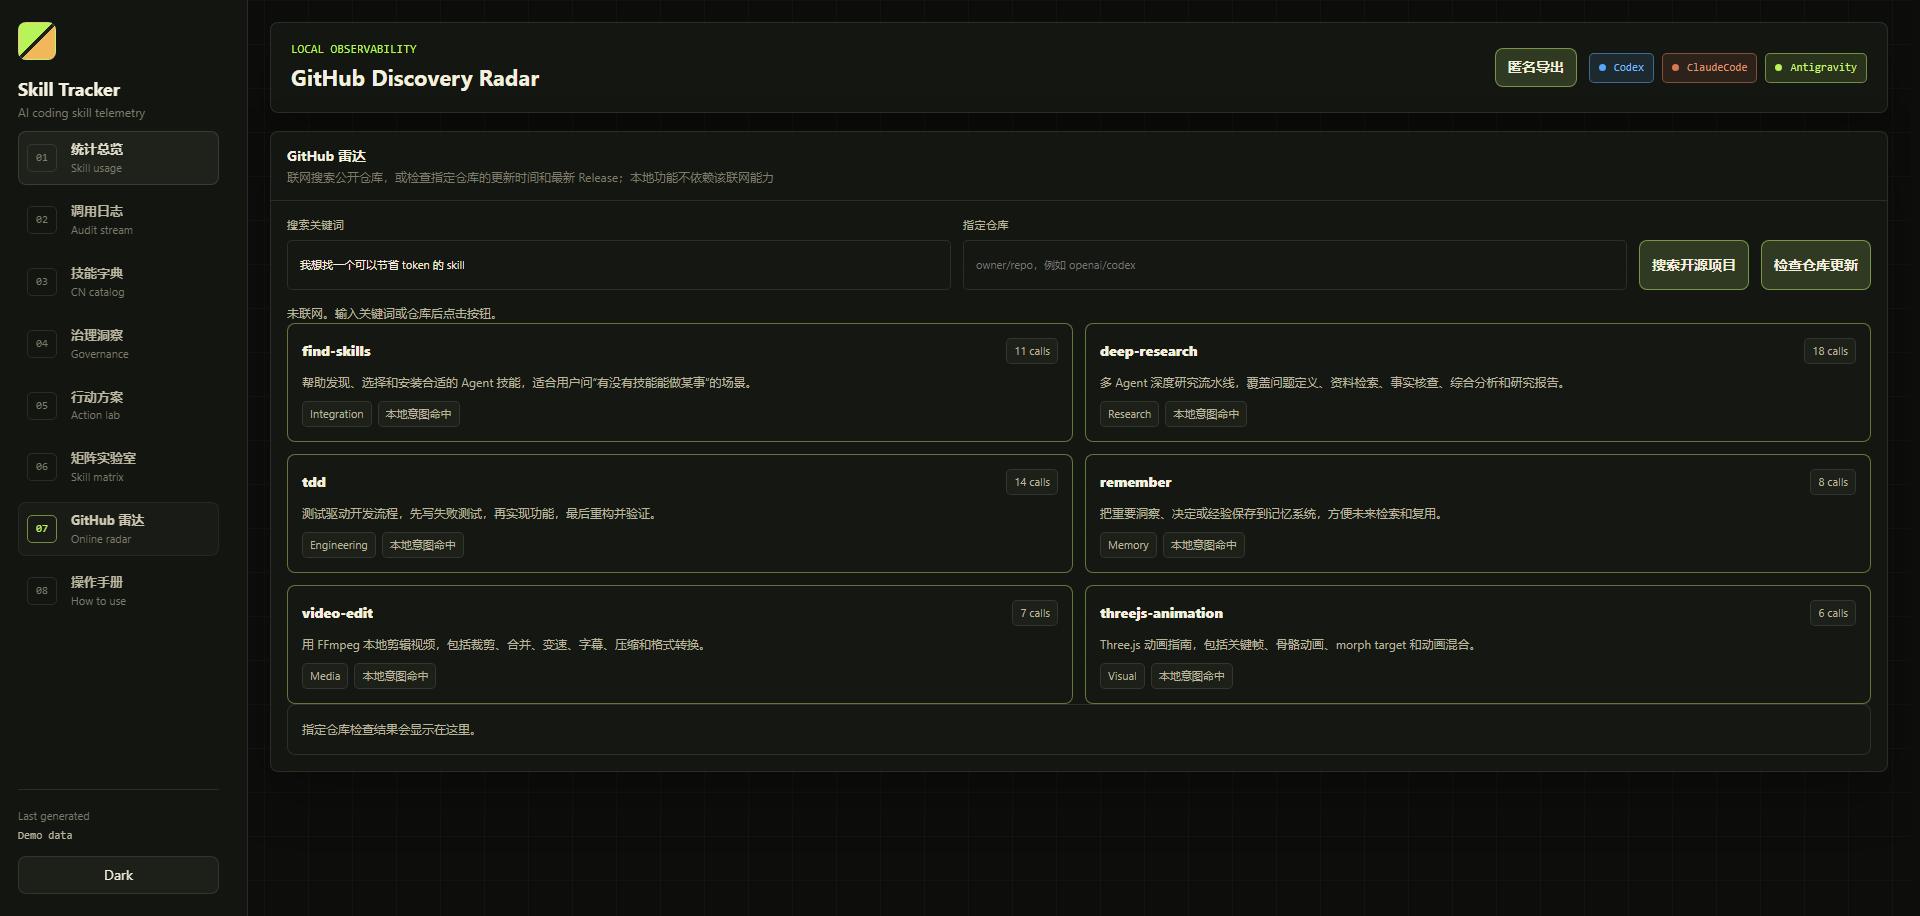
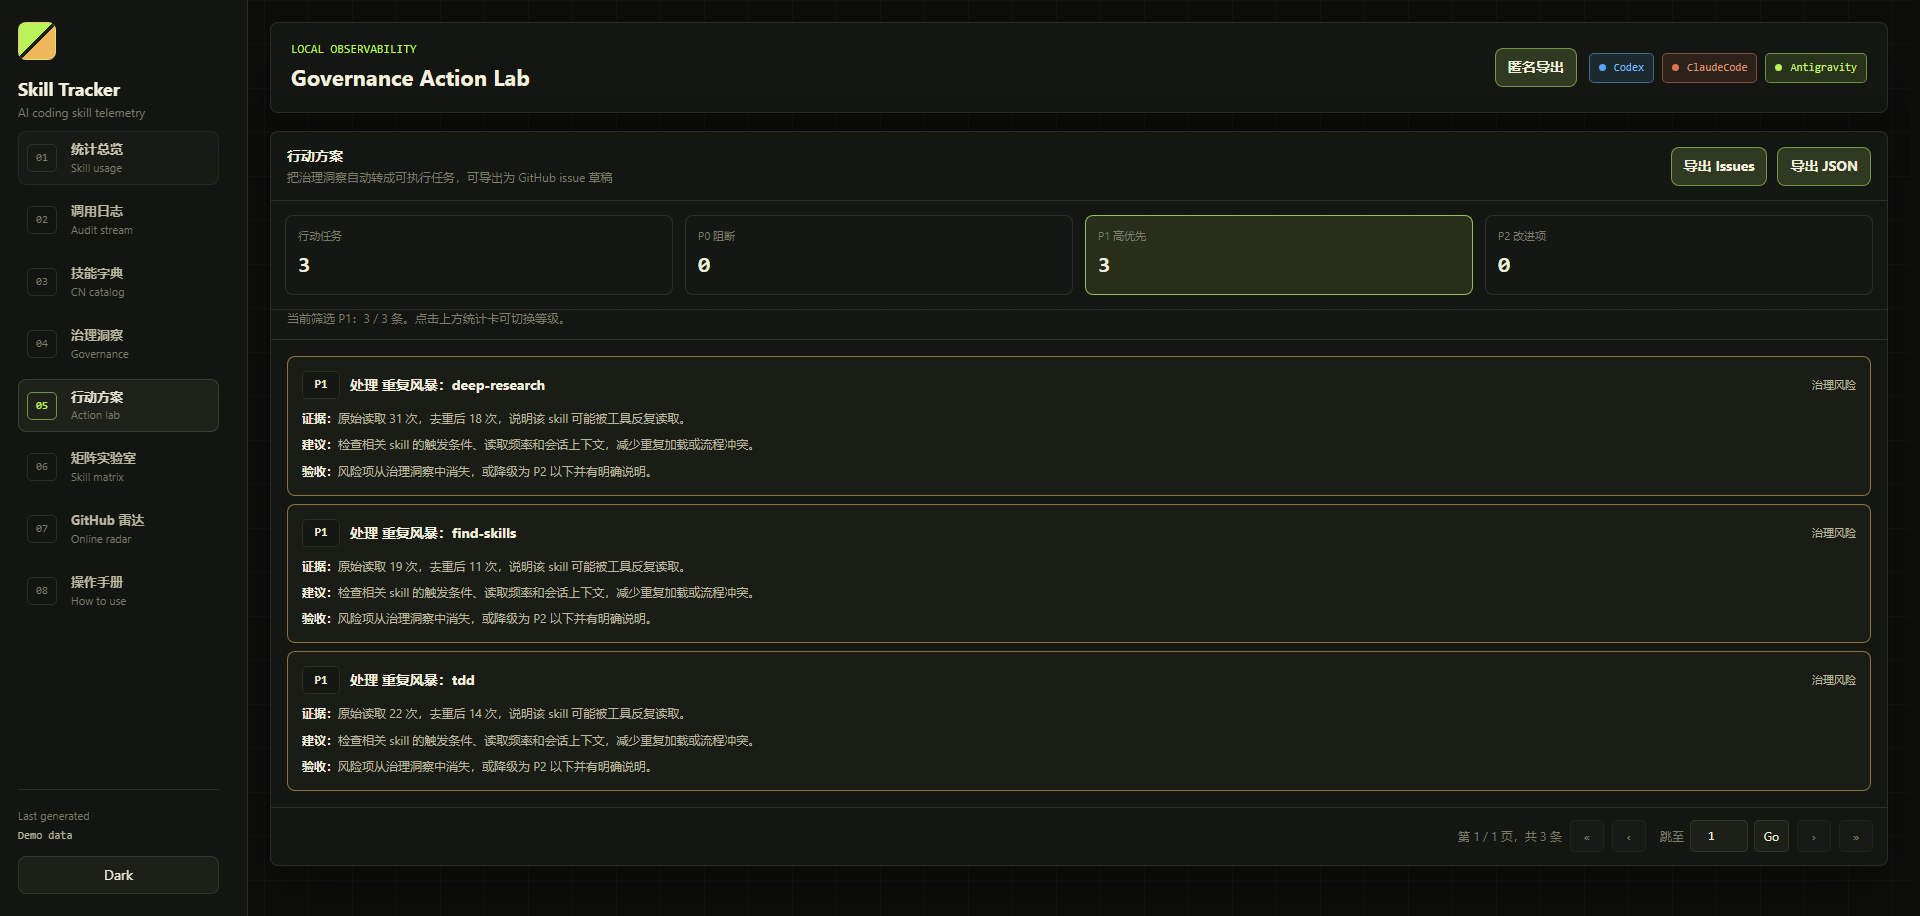
Finalize action lab release polish

diff --git a/dashboard/index.html b/dashboard/index.html
@@ -957,6 +957,21 @@ tbody tr.data-row.expanded {
   border: 1px solid var(--border);
   border-radius: var(--radius);
   background: var(--surface);
+  text-align: left;
+}
+
+button.catalog-stat {
+  cursor: pointer;
+  font: inherit;
+}
+
+button.catalog-stat:hover {
+  border-color: color-mix(in srgb, var(--accent) 48%, var(--border));
+}
+
+button.catalog-stat.active {
+  border-color: color-mix(in srgb, var(--accent) 72%, var(--border));
+  background: color-mix(in srgb, var(--accent) 11%, var(--surface));
 }
 
 .catalog-stat span {
@@ -1252,6 +1267,7 @@ tbody tr.data-row.expanded {
   min-height: 28px;
   display: inline-grid;
   place-items: center;
+  justify-self: start;
   border-radius: var(--radius-sm);
   border: 1px solid var(--border);
   background: var(--surface);
@@ -1269,6 +1285,7 @@ tbody tr.data-row.expanded {
 }
 
 .action-kind {
+  justify-self: start;
   color: var(--muted);
   font-size: 11px;
 }
@@ -1285,23 +1302,11 @@ tbody tr.data-row.expanded {
   color: var(--text);
 }
 
-.action-filter-row {
-  display: flex;
-  align-items: center;
-  justify-content: space-between;
-  gap: 12px;
-  padding: 0 16px 14px;
-  border-bottom: 1px solid var(--border);
-}
-
 .action-filter-note {
   color: var(--dim);
   font-size: 12px;
-  text-align: right;
-}
-
-.action-filter-row .segmented {
-  flex-wrap: wrap;
+  padding: 0 16px 12px;
+  border-bottom: 1px solid var(--border);
 }
 
 .matrix-toolbar,
@@ -1872,11 +1877,6 @@ tbody tr.data-row.expanded {
     justify-content: stretch;
   }
 
-  .action-filter-row {
-    align-items: stretch;
-    flex-direction: column;
-  }
-
   .action-filter-note {
     text-align: left;
   }
@@ -2201,18 +2201,11 @@ tbody tr.data-row.expanded {
         </div>
 
         <div class="catalog-summary" id="actionSummary"></div>
-        <div class="action-filter-row">
-          <div class="segmented" role="group" aria-label="行动方案优先级筛选">
-            <button type="button" class="active" data-action-priority-filter="all">全部</button>
-            <button type="button" data-action-priority-filter="P0">P0 阻断</button>
-            <button type="button" data-action-priority-filter="P1">P1 高优先</button>
-            <button type="button" data-action-priority-filter="P2">P2 改进</button>
-          </div>
-          <div class="action-filter-note" id="actionFilterNote">显示全部行动项</div>
-        </div>
+        <div class="action-filter-note" id="actionFilterNote">点击上方统计卡可切换优先级筛选。</div>
         <div class="section-body">
           <div class="insight-list" id="actionList"></div>
         </div>
+        <div class="pager" id="actionPager"></div>
       </div>
     </section>
 
@@ -2488,6 +2481,8 @@ tbody tr.data-row.expanded {
   var catalogPageSize = 8;
   var catalogDirty = {};
   var actionPriorityFilter = "all";
+  var actionPage = 0;
+  var actionPageSize = 8;
   var pageTitles = {
     stats: "AI Skill Usage Analytics",
     log: "Skill Call Audit Stream",
@@ -2516,6 +2511,7 @@ tbody tr.data-row.expanded {
     actionSummary: document.getElementById("actionSummary"),
     actionList: document.getElementById("actionList"),
     actionFilterNote: document.getElementById("actionFilterNote"),
+    actionPager: document.getElementById("actionPager"),
     exportActionIssues: document.getElementById("exportActionIssues"),
     exportActionJson: document.getElementById("exportActionJson"),
     matrixSummary: document.getElementById("matrixSummary"),
@@ -2651,14 +2647,12 @@ tbody tr.data-row.expanded {
     els.exportDuplicatePlan.addEventListener("click", exportDuplicateCleanupPlan);
     els.exportDuplicateScript.addEventListener("click", exportDuplicateArchiveScript);
     els.exportMatrixJson.addEventListener("click", exportMatrixJson);
-    document.querySelectorAll("[data-action-priority-filter]").forEach(function (button) {
-      button.addEventListener("click", function () {
-        actionPriorityFilter = button.getAttribute("data-action-priority-filter") || "all";
-        document.querySelectorAll("[data-action-priority-filter]").forEach(function (item) {
-          item.classList.toggle("active", item === button);
-        });
-        renderActionLab();
-      });
+    els.actionSummary.addEventListener("click", function (event) {
+      var button = event.target.closest("[data-action-priority-filter]");
+      if (!button) return;
+      actionPriorityFilter = button.getAttribute("data-action-priority-filter") || "all";
+      actionPage = 0;
+      renderActionLab();
     });
     els.githubSearch.addEventListener("click", searchGitHubProjects);
     els.githubCheckRepo.addEventListener("click", checkGitHubRepo);
@@ -3039,11 +3033,15 @@ tbody tr.data-row.expanded {
     var visibleActions = filterActionsByPriority(actions);
     renderActionSummary(actions);
     renderActionFilterNote(visibleActions, actions);
+    var pages = pageCount(visibleActions.length, actionPageSize);
+    actionPage = clamp(actionPage, 0, pages - 1);
     if (!visibleActions.length) {
       els.actionList.innerHTML = '<div class="empty-state">暂无需要处理的治理任务</div>';
+      els.actionPager.innerHTML = "";
       return;
     }
-    els.actionList.innerHTML = visibleActions.slice(0, 24).map(function (action) {
+    var slice = visibleActions.slice(actionPage * actionPageSize, (actionPage + 1) * actionPageSize);
+    els.actionList.innerHTML = slice.map(function (action) {
       return '<article class="action-card ' + escapeAttr(action.priority.toLowerCase()) + '">'
         + '<div class="action-head">'
         + '<span class="priority-badge">' + escapeHtml(action.priority) + '</span>'
@@ -3057,6 +3055,10 @@ tbody tr.data-row.expanded {
         + '</div>'
         + '</article>';
     }).join("");
+    renderPager(els.actionPager, visibleActions.length, actionPage, actionPageSize, function (nextPage) {
+      actionPage = nextPage;
+      renderActionLab();
+    });
   }
 
   function renderActionSummary(actions) {
@@ -3065,13 +3067,14 @@ tbody tr.data-row.expanded {
       counts[action.priority] = (counts[action.priority] || 0) + 1;
     });
     var cards = [
-      { label: "行动任务", value: actions.length },
-      { label: "P0 阻断", value: counts.P0 },
-      { label: "P1 高优先", value: counts.P1 },
-      { label: "P2 改进项", value: counts.P2 }
+      { label: "行动任务", value: actions.length, filter: "all" },
+      { label: "P0 阻断", value: counts.P0, filter: "P0" },
+      { label: "P1 高优先", value: counts.P1, filter: "P1" },
+      { label: "P2 改进项", value: counts.P2, filter: "P2" }
     ];
     els.actionSummary.innerHTML = cards.map(function (card) {
-      return '<div class="catalog-stat"><span>' + escapeHtml(card.label) + '</span><strong>' + formatNum(card.value) + '</strong></div>';
+      var active = actionPriorityFilter === card.filter ? " active" : "";
+      return '<button type="button" class="catalog-stat action-filter-card' + active + '" data-action-priority-filter="' + escapeAttr(card.filter) + '"><span>' + escapeHtml(card.label) + '</span><strong>' + formatNum(card.value) + '</strong></button>';
     }).join("");
   }
 
@@ -3084,7 +3087,7 @@ tbody tr.data-row.expanded {
 
   function renderActionFilterNote(visibleActions, actions) {
     var label = actionPriorityFilter === "all" ? "全部等级" : actionPriorityFilter;
-    els.actionFilterNote.textContent = "当前显示 " + label + "：" + formatNum(visibleActions.length) + " / " + formatNum(actions.length) + " 条";
+    els.actionFilterNote.textContent = "当前筛选 " + label + "：" + formatNum(visibleActions.length) + " / " + formatNum(actions.length) + " 条。点击上方统计卡可切换等级。";
   }
 
   function buildActionItems(model) {